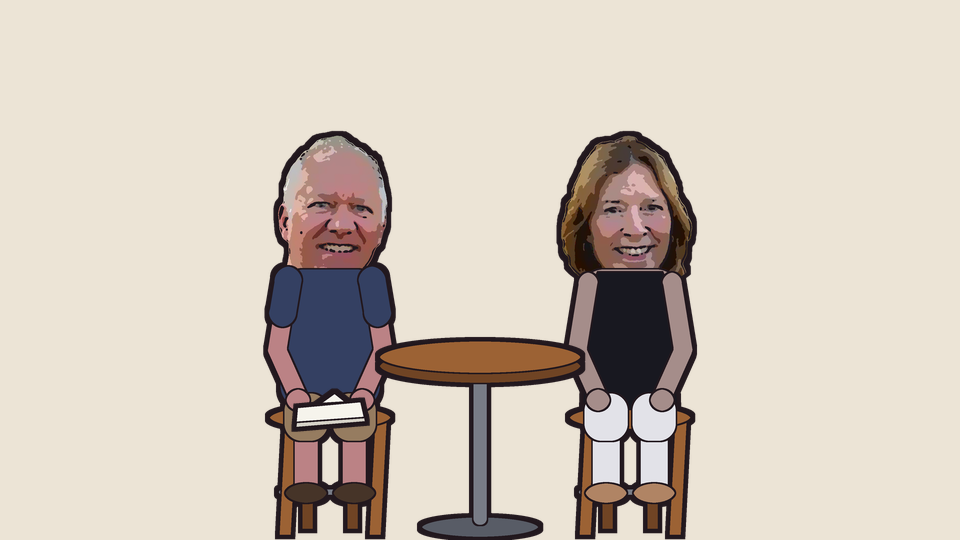
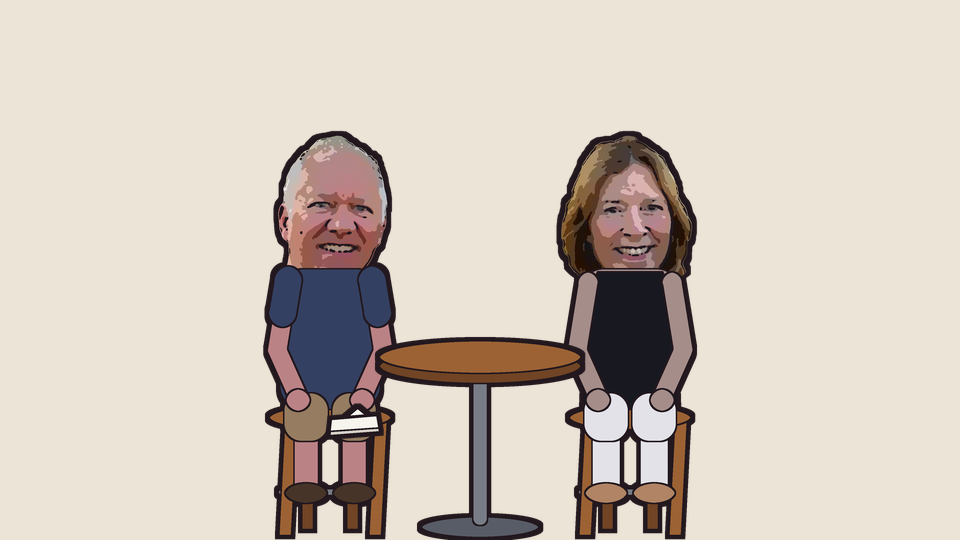
Start the napkin on Bryan's left leg and record both leg spots
anchors.json now lists a napkin spot for each leg plus which one it
starts on, so the game can move it back and forth. The napkin is
smaller so it fits on one thigh.

Claude-Session: https://claude.ai/code/session_01TktpGdAMwEXXGVahbjaJRu

Changed region(s): [[0.2812, 0.7111, 0.4062, 0.8296]]

diff --git a/tools/make_characters.py b/tools/make_characters.py
@@ -6,7 +6,7 @@ Reads assets/characters/cartoon/<name>.png (made by cartoonize.py) and writes:
   assets/characters/seated/<name>.png       full-size master, 900 px tall
   assets/characters/seated/<name>_game.png  450 px tall, for the 960x540 scene
   assets/characters/seated/table.png        hightop table, same scale as _game
-  assets/characters/seated/napkin.png       napkin layer for Bryan's lap
+  assets/characters/seated/napkin.png       napkin layer that moves between Bryan's legs
   assets/characters/seated/anchors.json     where everything goes in the scene
 
 Bodies are simple flat shapes in the same style as the heads: flat colours,
@@ -47,7 +47,10 @@ TABLE_W = 440              # table canvas width on the grid
 
 # Top-left corners in the 960 x 540 scene, for the _game images and table.png.
 SCENE = {"bryan": (170, 90), "table": (370, 90), "jane": (470, 90)}
-LAP = (320, 640)           # centre of the lap on the grid
+# Where the napkin can sit on Bryan, on the grid. He faces the viewer, so his
+# left leg is on the right of the picture. The napkin starts on his left leg.
+LEGS = {"left_leg": (368, 662), "right_leg": (272, 662)}
+NAPKIN_START = "left_leg"
 
 WOOD = (156, 98, 52)
 WOOD_DARK = (112, 68, 36)
@@ -197,9 +200,9 @@ def skin_tone(head):
 def napkin():
     """Folded cloth napkin, separate so the game can pop it in and out."""
     f = Figure()
-    f.poly(NAPKIN, [(24, 50), (154, 38), (164, 82), (20, 94)])
-    f.poly(NAPKIN_SHADE, [(22, 80), (162, 70), (164, 82), (20, 94)])
-    f.poly(NAPKIN, [(64, 46), (100, 20), (128, 42)])        # corner flopping up
+    f.poly(NAPKIN, [(22, 44), (116, 36), (122, 72), (18, 80)])
+    f.poly(NAPKIN_SHADE, [(20, 68), (120, 61), (122, 72), (18, 80)])
+    f.poly(NAPKIN, [(50, 42), (76, 20), (98, 38)])          # corner flopping up
     img = f.render()
     return img.crop(img.getbbox())
 
@@ -254,14 +257,16 @@ def main():
     print("wrote", (OUT_DIR / "table.png").relative_to(ROOT))
     print("wrote", (OUT_DIR / "napkin.png").relative_to(ROOT))
 
-    # Napkin's top-left corner in the scene, centred on Bryan's lap.
+    # Napkin's top-left corner in the scene for each of Bryan's legs.
     bx, by = SCENE["bryan"]
-    lap = (bx + round(LAP[0] * SCALE), by + round(LAP[1] * SCALE))
+    spots = {}
+    for leg, (x, y) in LEGS.items():
+        cx, cy = bx + round(x * SCALE), by + round(y * SCALE)
+        spots[leg] = {"x": cx - nap.width // 2, "y": cy - nap.height // 2}
     anchors = {
         "scene": {"w": 960, "h": 540},
         "layers": {k: {"x": x, "y": y} for k, (x, y) in SCENE.items()},
-        "napkin": {"x": lap[0] - nap.width // 2, "y": lap[1] - nap.height // 2,
-                   "w": nap.width, "h": nap.height},
+        "napkin": {"w": nap.width, "h": nap.height, "start": NAPKIN_START, "spots": spots},
     }
     (OUT_DIR / "anchors.json").write_text(json.dumps(anchors, indent=2) + "\n")
 
@@ -269,7 +274,7 @@ def main():
         scene = Image.new("RGBA", (960, 540), (236, 228, 214, 255))
         for name in ("bryan", "jane", "table"):
             scene.alpha_composite(layers[name], SCENE[name])
-        n = anchors["napkin"]
+        n = anchors["napkin"]["spots"][NAPKIN_START]
         scene.alpha_composite(nap, (n["x"], n["y"]))
         scene.convert("RGB").save(OUT_DIR / "preview.png")
         print("wrote", (OUT_DIR / "preview.png").relative_to(ROOT))

diff --git a/README.md b/README.md
@@ -21,8 +21,8 @@ assets/
       bryan.png, jane.png                 640 x 900 masters
       bryan_game.png, jane_game.png       320 x 450, for the 960 x 540 scene
       table.png                           hightop table, same scale
-      napkin.png                          napkin layer for Bryan's lap
-      anchors.json                        where each layer goes in the scene
+      napkin.png                          napkin layer, moves between Bryan's legs
+      anchors.json                        where each layer and napkin spot is in the scene
       preview.png                         the whole scene, napkin on
     source/      original photos and crops (not committed, see .gitignore)
 tools/
